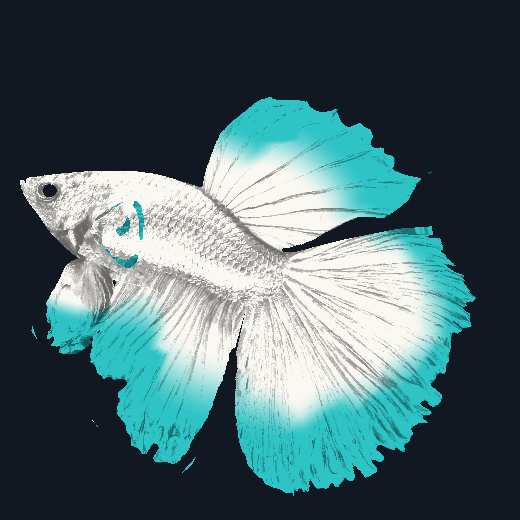
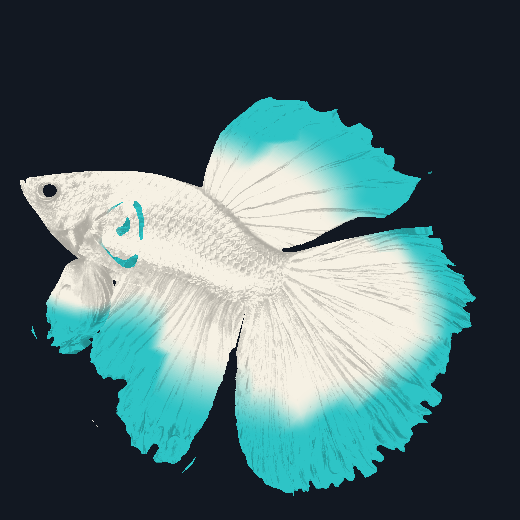
Milky white Aqua Pearl instead of silver
- BettaVariant.textureDetail (default 0.6, the material value) is sent as
  _VariantDetail by BettaAppearance, so a variant can fade the painted
  scales and fin rays that make white read as grey/silver.
- Aqua Pearl Rosetail: primary #F6F1E4, iridescence 0.25 (satin, not the
  metallic chrome of 0.9), texture detail 0.3. Other variants keep 0.6.
- Docs and preview updated.

Claude-Session: https://claude.ai/code/session_011kK4uPebxgePFjZ3JmRdxm

diff --git a/Assets/_Project/Scripts/Editor/BettaVariantPresets.cs b/Assets/_Project/Scripts/Editor/BettaVariantPresets.cs
@@ -70,12 +70,12 @@ public static class BettaVariantPresets
         var pearl = Pattern("Pearl", BettaPattern.Kind.Butterfly, 0.58f, 0.3f, 4f, 0.6f, 0.15f);
 
         BettaVariant Variant(string name, BettaTailType tail, BettaPattern pattern, string primary, string secondary, string accent,
-            float iridescence, float head, float fin, int seed)
+            float iridescence, float head, float fin, int seed, float detail = 0.6f)
         {
             var v = Load<BettaVariant>(Dir + "/Variants/" + name.Replace(" ", "") + ".asset");
             v.displayName = name; v.tail = tail; v.pattern = pattern;
             v.primary = Hex(primary); v.secondary = Hex(secondary); v.accent = Hex(accent);
-            v.iridescence = iridescence; v.headScale = head; v.finLength = fin; v.seed = seed;
+            v.iridescence = iridescence; v.textureDetail = detail; v.headScale = head; v.finLength = fin; v.seed = seed;
             EditorUtility.SetDirty(v);
             return v;
         }
@@ -90,7 +90,8 @@ public static class BettaVariantPresets
             Variant("Butterfly Delta", delta, butterfly, "#D7263D", "#F2EDE4", "#FFB3BC", 0.4f, 1f, 1f, 9),
             Variant("Copper Dragon Double Tail", doubletail, dragon, "#8A2A1A", "#B5562C", "#E9C9A0", 0.9f, 1.12f, 0.95f, 14),
             Variant("Blue Marble Halfmoon", halfmoon, marble, "#2B3A8F", "#EDE6DA", "#C2185B", 0.5f, 1f, 1f, 33),
-            Variant("Aqua Pearl Rosetail", rosetail, pearl, "#FAF8F2", "#2EC4C6", "#BFF5F2", 0.9f, 0.98f, 1.12f, 7),
+            // Milky white, not silver: low metallic sheen and faint texture detail.
+            Variant("Aqua Pearl Rosetail", rosetail, pearl, "#F6F1E4", "#2EC4C6", "#BFF5F2", 0.25f, 0.98f, 1.12f, 7, 0.3f),
         };
 
         var library = Load<BettaVariantLibrary>(LibraryPath);

diff --git a/Assets/_Project/Scripts/BettaAppearance.cs b/Assets/_Project/Scripts/BettaAppearance.cs
@@ -29,6 +29,7 @@ public class BettaAppearance : MonoBehaviour
     static readonly int PatternId = Shader.PropertyToID("_VariantPattern");
     static readonly int SeedId = Shader.PropertyToID("_VariantSeed");
     static readonly int IridescenceId = Shader.PropertyToID("_VariantIridescence");
+    static readonly int DetailId = Shader.PropertyToID("_VariantDetail");
     static readonly int SpotId = Shader.PropertyToID("_VariantSpot");
     static readonly int AccentSpotId = Shader.PropertyToID("_VariantAccentSpot");
     static readonly int BandId = Shader.PropertyToID("_VariantBand");
@@ -85,6 +86,7 @@ public class BettaAppearance : MonoBehaviour
             block.SetFloat(PatternId, p ? (float)p.kind : 0f);
             block.SetFloat(SeedId, variant.seed * 2.3999632f); // golden angle: neighbouring seeds look unrelated
             block.SetFloat(IridescenceId, variant.iridescence);
+            block.SetFloat(DetailId, variant.textureDetail);
             block.SetFloat(SpotId, p ? p.spotThreshold : 0.58f);
             block.SetFloat(AccentSpotId, p ? p.accentThreshold : 0.3f);
             block.SetFloat(BandId, p ? p.butterflyBand : 0.55f);

diff --git a/Assets/_Project/Scripts/BettaVariant.cs b/Assets/_Project/Scripts/BettaVariant.cs
@@ -15,7 +15,10 @@ public class BettaVariant : ScriptableObject
     public Color secondary = new Color(0.24f, 0.48f, 1f);
     [Tooltip("Iridescent sheen, Koi black spots, Dragon scales.")]
     public Color accent = new Color(0.62f, 0.83f, 1f);
+    [Tooltip("Metallic sheen on the body. High reads as silver/chrome; low keeps a soft satin (milky, pearl).")]
     [Range(0f, 1f)] public float iridescence = 0.6f;
+    [Tooltip("How much of the painted texture's scales and fin rays darken the colours. Low = smooth, milky colour.")]
+    [Range(0f, 1f)] public float textureDetail = 0.6f;
 
     [Header("Proportions")]
     [Range(0.8f, 1.3f)] public float headScale = 1f;

diff --git a/docs/betta-variants.md b/docs/betta-variants.md
@@ -42,7 +42,7 @@ Bản mask trong repo đã được bổ sung vùng vây bằng chính `BettaMas
 
 ![Aqua Pearl Rosetail sau khi sửa mask](previews/BettaVariants/aqua-pearl.png)
 
-*Ảnh render ngoài Unity, nhìn ngang, vây phẳng, cùng công thức màu với `BettaVariant.hlsl`. Không có ánh sáng URP, ánh kim và nếp gợn sóng.*
+*Ảnh render ngoài Unity, nhìn ngang, vây phẳng, cùng công thức màu với `BettaVariant.hlsl` (Texture Detail 0.3). Không có ánh sáng URP, độ bóng và nếp gợn sóng.*
 
 Artist có thể vẽ đè mask này theo cùng quy ước kênh. Chạy lại **Bake Betta Variant Mask** sẽ ghi đè file.
 
@@ -105,7 +105,7 @@ Trường **Base Map** (texture cắt alpha từ `Tools/betta_fin_cuts.py`) vẫ
 
 Butterfly và Pearl có hai trường **Butterfly Band** (vị trí dải, 0 là gốc vây, 1 là mép) và **Butterfly Band Softness** (độ rộng vùng chuyển màu; 0.04 là đường cắt gọn, càng lớn càng loang mềm).
 
-Variant **Aqua Pearl Rosetail** (thân trắng sữa, vây trắng ở gốc và viền xanh ngọc ở nửa ngoài) dùng hoa văn Pearl trên đuôi Rosetail.
+Variant **Aqua Pearl Rosetail** (thân trắng sữa, vây trắng ở gốc và viền xanh ngọc ở nửa ngoài) dùng hoa văn Pearl trên đuôi Rosetail. Để ra trắng sữa chứ không phải trắng bạc, variant này để **Iridescence** thấp (0.25, chỉ bóng mờ chứ không phản chiếu như kim loại) và **Texture Detail** 0.3 (vân vảy và tia vây của texture gốc mờ hơn; mặc định 0.6).
 
 Độ hiếm của một variant = trọng số đuôi × trọng số hoa văn / 10000. Trên 8% là Common, trên 3% là Uncommon, trên 0.8% là Rare, còn lại là Legendary.
 
